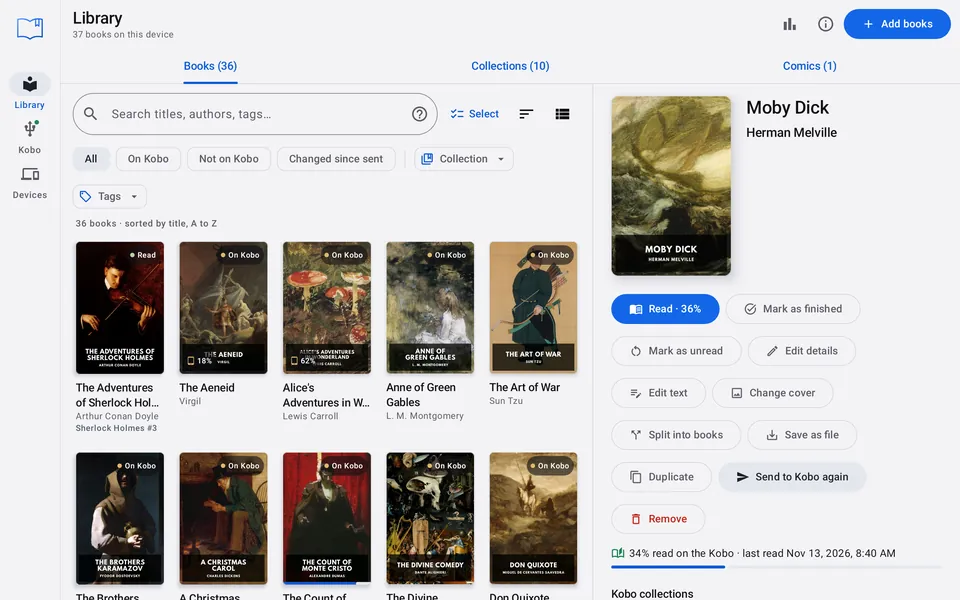
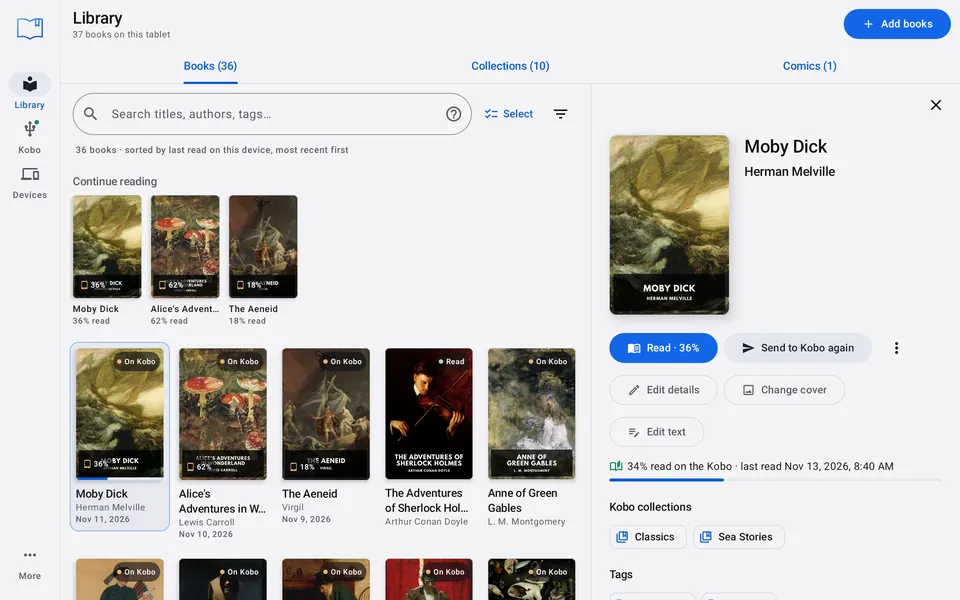
Front page: every screenshot retaken in 3.5, the word look-up, and a GIF of the themes
- Screenshots retaken in the new app: the library from its top with Continue reading, the Kobo's books, sending, the reading settings' first page, the phone rows and every theme.
- Two pictures of looking a word up on the page: what it means here, and with its dictionary entry.
- A GIF above the themes: the library in every theme, then the reader's page colours, fonts and layouts.
- Dictionary entries leave no space before a semicolon or colon ("a pile; a post").
- Pictures of the reader show the same time in their margins.

diff --git a/app/src/test/java/dev/kolib/app/AdvertShots140.kt b/app/src/test/java/dev/kolib/app/AdvertShots140.kt
@@ -203,6 +203,13 @@ class AdvertShots140 {
 
     private fun Library.titled(title: String): LibraryBook = books.value.first { it.title == title }
 
+    /** The books read here first (so the shelf shows from its top, with Continue reading), Moby Dick open beside them. */
+    private fun LibraryBrowseState.readFirst(lib: Library) {
+        sort = LibrarySort.READ_HERE
+        descending = true
+        selectedId = lib.titled("Moby Dick").id
+    }
+
     private fun shot(name: String, theme: ThemeChoice = ThemeChoice.BOOKCASE, settle: Long = 1_000, content: @Composable () -> Unit) {
         out.mkdirs()
         compose.mainClock.autoAdvance = false
@@ -236,7 +243,7 @@ class AdvertShots140 {
     @Config(qualifiers = TAB)
     fun libraryShelves() {
         val (lib, covers) = library()
-        val browse = LibraryBrowseState().apply { selectedId = lib.titled("Moby Dick").id }
+        val browse = LibraryBrowseState().apply { readFirst(lib) }
         shot("ad_library") { LibraryPage(lib, covers, browse) }
     }
 
@@ -244,8 +251,10 @@ class AdvertShots140 {
     @Config(qualifiers = TAB)
     fun sending() {
         val (lib, covers) = library()
-        val picked = listOf("Pride and Prejudice", "Emma", "Persuasion").map { lib.titled(it) }
+        val picked = listOf("Moby Dick", "Alice's Adventures in Wonderland", "The Aeneid").map { lib.titled(it) }
         val browse = LibraryBrowseState().apply {
+            sort = LibrarySort.READ_HERE
+            descending = true
             selecting = true
             picked.forEach { this.picked[it.id] = true }
         }
@@ -508,8 +517,14 @@ class AdvertShots140 {
         }
     }
 
-    @Test @Config(qualifiers = TAB) fun koboBooks() = koboScreen("ad_kobo_books") { s -> selectedBookId = s.snapshot.books.first { it.title == "The Odyssey" }.contentId }
+    @Test @Config(qualifiers = TAB) fun koboBooks() = koboScreen("ad_kobo_books") { s ->
+        whereNoteSeen = true
+        sort = dev.kolib.app.ui.KoboSort.LAST_READ
+        descending = true
+        selectedBookId = s.snapshot.books.first { it.title == "The Odyssey" }.contentId
+    }
     @Test @Config(qualifiers = TAB) fun koboCollections() = koboScreen("ad_kobo_collections", tab = 1, collection = "Classics") { s ->
+        whereNoteSeen = true
         collectionBookId = s.snapshot.books.first { it.title == "Pride and Prejudice" }.contentId
     }
 
@@ -719,6 +734,7 @@ class AdvertShots140 {
         counted(c)
         val blank = if (blankFirst) 1 else 0
         c.showForPreview(at, screen, screens, columns, twoUp, blank)
+        c.timeForPreview = eveningTime()
         c.controlsVisible = controls
         c.lookTab = lookTab
         prepare(c)
@@ -741,6 +757,11 @@ class AdvertShots140 {
     }
 
     private val mobyBook = "herman-melville_moby-dick"
+
+    /** The time the reader's margins show in these pictures, the same in each: twenty to nine in the evening. */
+    private fun eveningTime(): Long = java.util.Calendar.getInstance().apply {
+        set(java.util.Calendar.HOUR_OF_DAY, 20); set(java.util.Calendar.MINUTE, 40); set(java.util.Calendar.SECOND, 0)
+    }.timeInMillis
     private fun mobyNow(name: String, settings: ReaderSettings, page: String, screen: Int, screens: Int = 4, columns: Int = 6, chapter: String = "chapter-1.xhtml", panel: Panel = Panel.NONE, lookTab: Int = 0) =
         readerNow(name, mobyBook, "Moby Dick", "Herman Melville", chapter, settings, page, screen, screens, columns, controls = panel != Panel.NONE, panel = panel, lookTab = lookTab)
 
@@ -843,7 +864,7 @@ class AdvertShots140 {
     /** The library, with Moby Dick open beside it, in [theme]. */
     private fun look(theme: ThemeChoice) {
         out = front
-        libraryIn("look_${theme.name.lowercase()}", theme) { selectedId = it.titled("Moby Dick").id }
+        libraryIn("look_${theme.name.lowercase()}", theme) { readFirst(it) }
     }
     @Test @Config(qualifiers = TAB) fun lookLight() = look(ThemeChoice.LIGHT)
     @Test @Config(qualifiers = TAB) fun lookDark() = look(ThemeChoice.DARK)
@@ -866,6 +887,54 @@ class AdvertShots140 {
         "reader_bars", prideBook, "Pride and Prejudice", "Jane Austen", "chapter-1.xhtml", prideDual(), "pride_dual_s1", 0, 2, 3,
         blankFirst = false, controls = true, into = front,
     )
+
+    /** The reading settings, open at their first page over Moby Dick. */
+    @Test @Config(qualifiers = TAB)
+    fun frontReaderSettings() = readerNow(
+        "reader_settings", mobyBook, "Moby Dick", "Herman Melville", "chapter-1.xhtml", nowSettings(), "moby_paper_s2", 1, 4, 6,
+        controls = true, panel = Panel.LOOK, lookTab = -1, into = front,
+    )
+
+    // ---- the themes GIF: the reader's page colours and layouts, with nothing open over the page ---------------------
+
+    private fun oneWide() = nowSettings(ReaderTheme.SEPIA).copy(spread = dev.kolib.app.reader.ReaderSpread.ONE, margins = dev.kolib.app.reader.ReaderMargins.WIDE)
+    private fun scrolling() = nowSettings(ReaderTheme.NIGHT, flow = ReaderFlow.SCROLL)
+
+    /** What the page is told for the GIF's own layouts: one page with wide margins, and scrolling (render5.py's gif part). */
+    @Test
+    @Config(qualifiers = TAB)
+    fun gifStarts() {
+        val dir = File(five, "start").apply { mkdirs() }
+        fun dump(name: String, settings: ReaderSettings) = withBook(mobyBook) { files, structure ->
+            val c = ReaderController(files, structure, "Moby Dick", "en", null, settings, context.assets, "Herman Melville")
+            counted(c)
+            val at = c.chapters.indexOfFirst { it.path.endsWith("chapter-1.xhtml") }
+            File(dir, "$name.json").writeText(c.startForPreview(at))
+        }
+        dump("moby_one_wide", oneWide())
+        dump("moby_scroll", scrolling())
+    }
+
+    private fun gifReader(name: String, settings: ReaderSettings, page: String, screen: Int = 1, screens: Int = 4, columns: Int = 6, twoUp: Boolean = true) =
+        readerNow("gif_$name", mobyBook, "Moby Dick", "Herman Melville", "chapter-1.xhtml", settings, page, screen, screens, columns, twoUp = twoUp, into = front)
+
+    @Test @Config(qualifiers = TAB) fun gifPaper() = gifReader("paper", nowSettings(), "moby_paper_s2")
+    @Test @Config(qualifiers = TAB) fun gifWhite() = gifReader("white", nowSettings(ReaderTheme.WHITE), "moby_white_s2")
+    @Test @Config(qualifiers = TAB) fun gifSepia() = gifReader("sepia", nowSettings(ReaderTheme.SEPIA), "moby_sepia_s2")
+    @Test @Config(qualifiers = TAB) fun gifSlate() = gifReader("slate", nowSettings(ReaderTheme.SLATE), "moby_slate_s2")
+    @Test @Config(qualifiers = TAB) fun gifNight() = gifReader("night", nowSettings(ReaderTheme.NIGHT), "moby_night_s2")
+    @Test @Config(qualifiers = TAB) fun gifBlack() = gifReader("black", nowSettings(ReaderTheme.BLACK), "moby_black_s2")
+    @Test @Config(qualifiers = TAB) fun gifLiterata() = gifReader("literata", nowSettings(font = ReaderFont.LITERATA, scale = 1.0f), "moby_font_literata_s2", columns = 7)
+    @Test @Config(qualifiers = TAB) fun gifAtkinson() = gifReader("atkinson", nowSettings(font = ReaderFont.HYPERLEGIBLE, scale = 1.0f), "moby_font_atkinson_s2")
+    @Test @Config(qualifiers = TAB) fun gifDyslexic() = gifReader("dyslexic", nowSettings(font = ReaderFont.DYSLEXIC, scale = 0.9f), "moby_font_dyslexic_s2", screens = 6, columns = 10)
+    @Test @Config(qualifiers = TAB) fun gifOneWide() {
+        val pages = File("/home/claude/advert5work/pages/moby_one_wide_pages.txt").readText().trim().toInt()
+        gifReader("one_wide", oneWide(), "moby_one_wide_s1", screen = 0, screens = pages, columns = pages, twoUp = false)
+    }
+    @Test @Config(qualifiers = TAB) fun gifScroll() {
+        val pages = File("/home/claude/advert5work/pages/moby_scroll_pages.txt").readText().trim().toInt()
+        gifReader("scroll", scrolling(), "moby_scroll_view", screen = 0, screens = pages, columns = pages, twoUp = false)
+    }
 
     /** The sample comic open at its spread across two pages, with the comic reader's bars showing. */
     @Test @Config(qualifiers = TAB)
@@ -892,6 +961,12 @@ class AdvertShots140 {
 
     /** What the AI says in the pictures: a summary of the chapter, who someone is, and what to read next. */
     private fun answers(messages: List<dev.kolib.app.ai.AiMessage>): String = when {
+        messages.last().content.contains("Define \"spiles\"") -> {
+            // As long as the model takes to answer on a tablet.
+            Thread.sleep(5_200)
+            "Meaning: noun, wooden posts or piles driven into the ground to hold up a pier or wharf\n" +
+                "Here: The crowds are leaning against the wooden posts along the wharves, all of them gazing out to sea."
+        }
         messages.last().content.contains("Summarise it") -> PRIDE_SUMMARY
         messages.first().content.contains("Books in the library:") ->
             "You're 81% of the way through The Count of Monte Cristo, so I'd finish that first. After that, you've read " +
@@ -959,7 +1034,7 @@ class AdvertShots140 {
         compose.setContent {
             AppSurface(ThemeChoice.BOOKCASE) {
                 Box(Modifier.fillMaxSize()) {
-                    LibraryPage(lib, covers, LibraryBrowseState().apply { selectedId = lib.titled("Moby Dick").id })
+                    LibraryPage(lib, covers, LibraryBrowseState().apply { readFirst(lib) })
                     dev.kolib.app.ui.ai.AiLayer(place)
                 }
             }
@@ -974,6 +1049,72 @@ class AdvertShots140 {
         repeat(10) { compose.waitForIdle(); Thread.sleep(50) }
         front.mkdirs()
         captureScreenRoboImage(File(front, "ai_library.png").path)
+    }
+
+    // ---- looking a word up on the page: Wiktionary's entry, and the AI's meaning of it there ------------------------
+
+    /**
+     * "spiles" looked up on Moby Dick's second screen ([withAi]: with a model to ask), with [act] done before the picture's
+     * taken. Wiktionary's entries are its own, as its definition API gives them; where the word is and its paragraph are
+     * from the page as Chrome lays it out (lookup_rect.py).
+     */
+    private fun lookUp(name: String, withAi: Boolean, act: () -> Unit) = withBook(mobyBook) { files, structure ->
+        dev.kolib.app.dict.Wiktionary.fetcher = { url ->
+            when (url.substringAfterLast('/').lowercase()) {
+                "spiles", "spile" -> javaClass.getResourceAsStream("/wiktionary/${url.substringAfterLast('/').lowercase()}.json")!!.bufferedReader().readText()
+                else -> null
+            }
+        }
+        try {
+            if (withAi) answeringModel(context, aiScope, ::answers)
+            val c = ReaderController(files, structure, "Moby Dick", "en", null, nowSettings(), context.assets, "Herman Melville")
+            counted(c)
+            val at = c.chapters.indexOfFirst { it.path.endsWith("chapter-1.xhtml") }
+            c.showForPreview(at, 1, 4, 6, true, 1)
+            c.timeForPreview = eveningTime()
+            val spot = org.json.JSONObject(File("/home/claude/advert5work/lookup/spiles.json").readText())
+            val r = spot.getJSONArray("rects").getJSONObject(0)
+            val x = r.getDouble("x").toFloat()
+            val y = r.getDouble("y").toFloat()
+            val word = android.graphics.RectF(x, y, x + r.getDouble("w").toFloat(), y + r.getDouble("h").toFloat())
+            val img = pageNow("moby_paper_s2")
+            compose.mainClock.autoAdvance = true
+            compose.setContent {
+                AppSurface(ThemeChoice.BOOKCASE) {
+                    ReaderScreen(
+                        c, onSettings = {}, onClose = {}, onEdit = {},
+                        pagePreview = { Image(img, null, Modifier.fillMaxSize(), contentScale = ContentScale.FillBounds) },
+                    )
+                }
+            }
+            compose.waitForIdle()
+            c.showForPreview(at, 1, 4, 6, true, 1)
+            c.lookUpForPreview("spiles", spot.getString("paragraph").replace("\uFEFF", ""), word)
+            act()
+            repeat(10) { compose.waitForIdle(); Thread.sleep(50) }
+            front.mkdirs()
+            captureScreenRoboImage(File(front, "$name.png").path)
+        } finally {
+            dev.kolib.app.dict.Wiktionary.fetcher = dev.kolib.app.dict.Wiktionary::get
+        }
+    }
+
+    /** The AI's meaning, and what it means in this sentence. */
+    @Test @Config(qualifiers = TAB)
+    fun frontLookUpAi() = lookUp("lookup_ai", withAi = true) { answered() }
+
+    /** That, with Wiktionary's entry opened out under it. */
+    @Test @Config(qualifiers = TAB)
+    fun frontLookUpDictionary() = lookUp("lookup_dictionary", withAi = true) {
+        answered()
+        compose.onNodeWithTag("look-up-dictionary-button").performClick()
+        compose.settleUntil { compose.onAllNodes(hasTestTag("look-up-dictionary")).fetchSemanticsNodes().isNotEmpty() }
+    }
+
+    /** The AI has answered, and what the word means in its sentence is opened out. */
+    private fun answered() {
+        compose.settleUntil { compose.onAllNodes(hasTestTag("look-up-ai")).fetchSemanticsNodes().isNotEmpty() && kolib.ai.busy.value == AiHub.State.IDLE }
+        compose.onNodeWithTag("look-up-here-button").performClick()
     }
 
     /** The five characters the AI can be, each doing something. */

diff --git a/app/src/test/java/dev/kolib/app/PhoneShots.kt b/app/src/test/java/dev/kolib/app/PhoneShots.kt
@@ -406,7 +406,7 @@ class PhoneShots {
     private fun koboScreen(name: String, tab: Int = 0, collection: String? = null, theme: ThemeChoice = ThemeChoice.BOOKCASE, saved: Boolean = false, configure: BrowseState.(KoboSession) -> Unit = {}) {
         val (repo, s) = kobo()
         val after = runBlocking { repo.afterConnect(s) }
-        val browse = BrowseState().apply { deviceTab = tab }.apply { configure(s) }
+        val browse = BrowseState().apply { deviceTab = tab; whereNoteSeen = true }.apply { configure(s) }
         val state = UiState(
             connection = Connection.Connected(s, false),
             backups = repo.backups.list(),
@@ -733,6 +733,9 @@ class PhoneShots {
             counted(c)
             val pages = File(home, "pages/moby_now_pages.txt").takeIf { it.exists() }?.readText()?.trim()?.toIntOrNull() ?: 8
             c.showForPreview(at, 0, pages)
+            c.timeForPreview = java.util.Calendar.getInstance().apply {
+                set(java.util.Calendar.HOUR_OF_DAY, 20); set(java.util.Calendar.MINUTE, 40); set(java.util.Calendar.SECOND, 0)
+            }.timeInMillis
             c.controlsVisible = controls
             c.lookTab = lookTab
             val img = BitmapFactory.decodeFile(pageNow.path).asImageBitmap()

diff --git a/app/src/test/java/dev/kolib/app/dict/WiktionaryTest.kt b/app/src/test/java/dev/kolib/app/dict/WiktionaryTest.kt
@@ -41,6 +41,15 @@ class WiktionaryTest {
         assertFalse(r.entries.any { e -> e.senses.any { it.contains('<') } })
     }
 
+    /** Where a link meets a semicolon, a colon or the like, no space is left before it ("a pile; a post", not "a pile ; a post"). */
+    @Test
+    fun noSpaceIsLeftBeforePunctuation() {
+        val r = Wiktionary.parse(page("spile"), "spile", "en")!!
+        assertEquals("A pile; a post or girder.", r.entries[1].senses[0])
+        assertEquals("(obsolete or dialectal, Cumbria, Lancashire) A splinter.", r.entries[0].senses[0])
+        assertEquals("plural of spile", Wiktionary.parse(page("spiles"), "spiles", "en")!!.form)
+    }
+
     @Test
     fun theBooksLanguageIsPreferredThenEnglish() {
         assertEquals("Dutch", Wiktionary.parse(page("brood"), "brood", "nl-NL")!!.language)

diff --git a/app/src/main/java/dev/kolib/app/ui/reader/ReaderScreen.kt b/app/src/main/java/dev/kolib/app/ui/reader/ReaderScreen.kt
@@ -2361,8 +2361,8 @@ private fun MarginSpot.alignment(): Alignment = when (this) {
 private fun BoxWithConstraintsScope.Margins(controller: ReaderController, s: ReaderSettings, color: Color) {
     val context = LocalContext.current
     val clocked = s.shownSpotOf(MarginItem.CLOCK) != MarginSpot.OFF || s.shownSpotOf(MarginItem.BATTERY) != MarginSpot.OFF
-    var now by remember { mutableStateOf(System.currentTimeMillis()) }
-    if (clocked) {
+    var now by remember { mutableStateOf(controller.timeForPreview ?: System.currentTimeMillis()) }
+    if (clocked && controller.timeForPreview == null) {
         LaunchedEffect(Unit) {
             while (true) {
                 delay(60_000 - System.currentTimeMillis() % 60_000 + 50)

diff --git a/app/src/main/java/dev/kolib/app/dict/Wiktionary.kt b/app/src/main/java/dev/kolib/app/dict/Wiktionary.kt
@@ -55,7 +55,8 @@ object Wiktionary {
 
     private val formLink = Regex("""form-of-definition-link.*?href="/wiki/([^"#?]+)""")
 
-    private fun plain(html: String): String = EpubText.plainText(html).replace(Regex("\\s+"), " ").replace(" ,", ",").replace(" .", ".").replace("( ", "(").replace(" )", ")").trim()
+    private fun plain(html: String): String = EpubText.plainText(html).replace(Regex("\\s+"), " ")
+        .replace(Regex(" ([,.;:!?)])"), "$1").replace("( ", "(").trim()
 
     /**
      * Reads Wiktionary's answer for [word]: the entries for [language] (a code such as "en" or "fr") if it has

diff --git a/app/src/main/java/dev/kolib/app/reader/ReaderController.kt b/app/src/main/java/dev/kolib/app/reader/ReaderController.kt
@@ -2061,6 +2061,9 @@ class ReaderController(
     /** For tests: the chapters' lengths have been counted. */
     internal val lengthsCounted: Boolean get() = lengthsKnown
 
+    /** For pictures of the reader: the time its margins show, in place of the time now. */
+    internal var timeForPreview: Long? = null
+
     /** For pictures of the reading screen in tests, where there's no WebView to report pages. */
     /** For pictures of the reader made without a WebView: what the page is told as chapter [index] opens at its start. */
     internal fun startForPreview(index: Int): String {

diff --git a/README.md b/README.md
@@ -57,6 +57,17 @@
   <img src="docs/images/phones-more.webp" width="860" alt="A Kobo's books, sending a book, the AI's summary of a chapter and the cover generator on a phone">
 </p>
 
+### Looking up a word
+
+See what a word means without leaving the page: the AI says what it means, and what it means in the sentence you're reading, with the dictionary entry a tap away.
+
+<table>
+  <tr>
+    <td align="center" width="50%"><a href="docs/images/lookup-ai.webp"><img src="docs/images/lookup-ai.webp" alt="A word looked up on the page: what it means, and what it means in its sentence"></a><br><b>What it means here</b></td>
+    <td align="center" width="50%"><a href="docs/images/lookup-dictionary.webp"><img src="docs/images/lookup-dictionary.webp" alt="The same word with its Wiktionary entry opened out under it"></a><br><b>Dictionary</b></td>
+  </tr>
+</table>
+
 ### The AI companion
 
 <table>
@@ -71,6 +82,10 @@
 </table>
 
 ### Themes
+
+<p align="center">
+  <img src="docs/images/themes.gif" width="860" alt="The library changing through every theme, then the reader's page colours, fonts and layouts">
+</p>
 
 <table>
   <tr>
